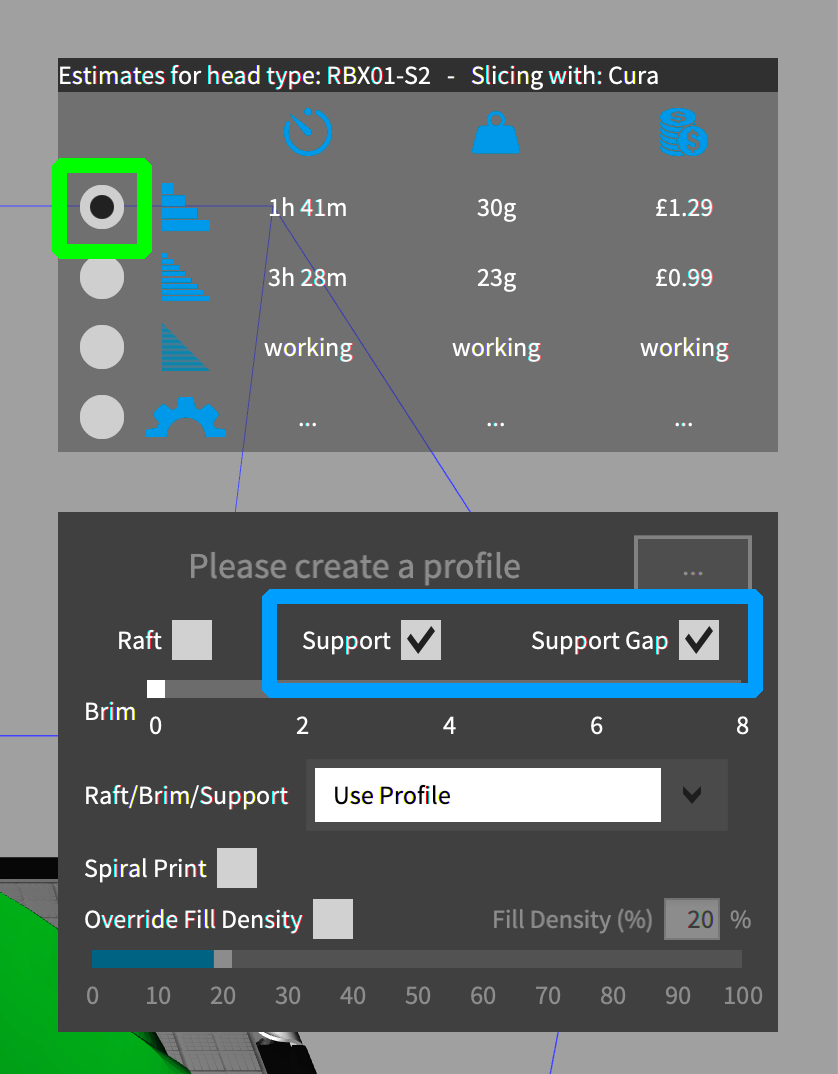
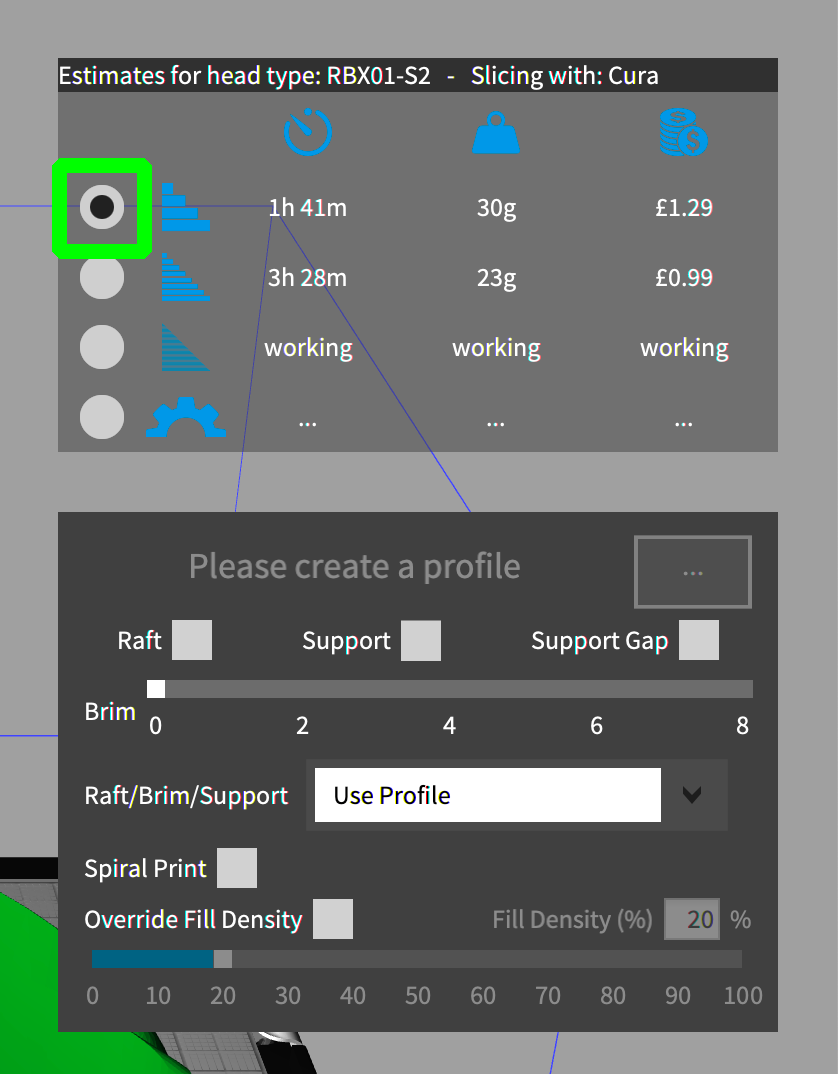
Update to remove scaffolding instructions.

Changed region(s): [[0.3103, 0.5223, 0.9308, 0.676]]

diff --git a/README.md b/README.md
@@ -83,7 +83,7 @@ We don't a fine resolution print for the mask, so we'll use the preset options f
 ![](images/5.png)
 
 
-Select the radio button next (highlighted in green) to select the coarsest print, then click the check boxes in the lower dialog to enable "Support" and "Support Gap" (highlighted above in blue). This will set your printer to print scaffolding that will support overhanging structures in the model.
+Select the radio button next (highlighted in green) to select the coarsest print. While we initially advised that you should enable the "Support" and "Support Gap" options, subsequent experimentation has shown it is not neccessary for a succesful print. You do not need to enable these options.
 
 ### Step 4. The print.
 
